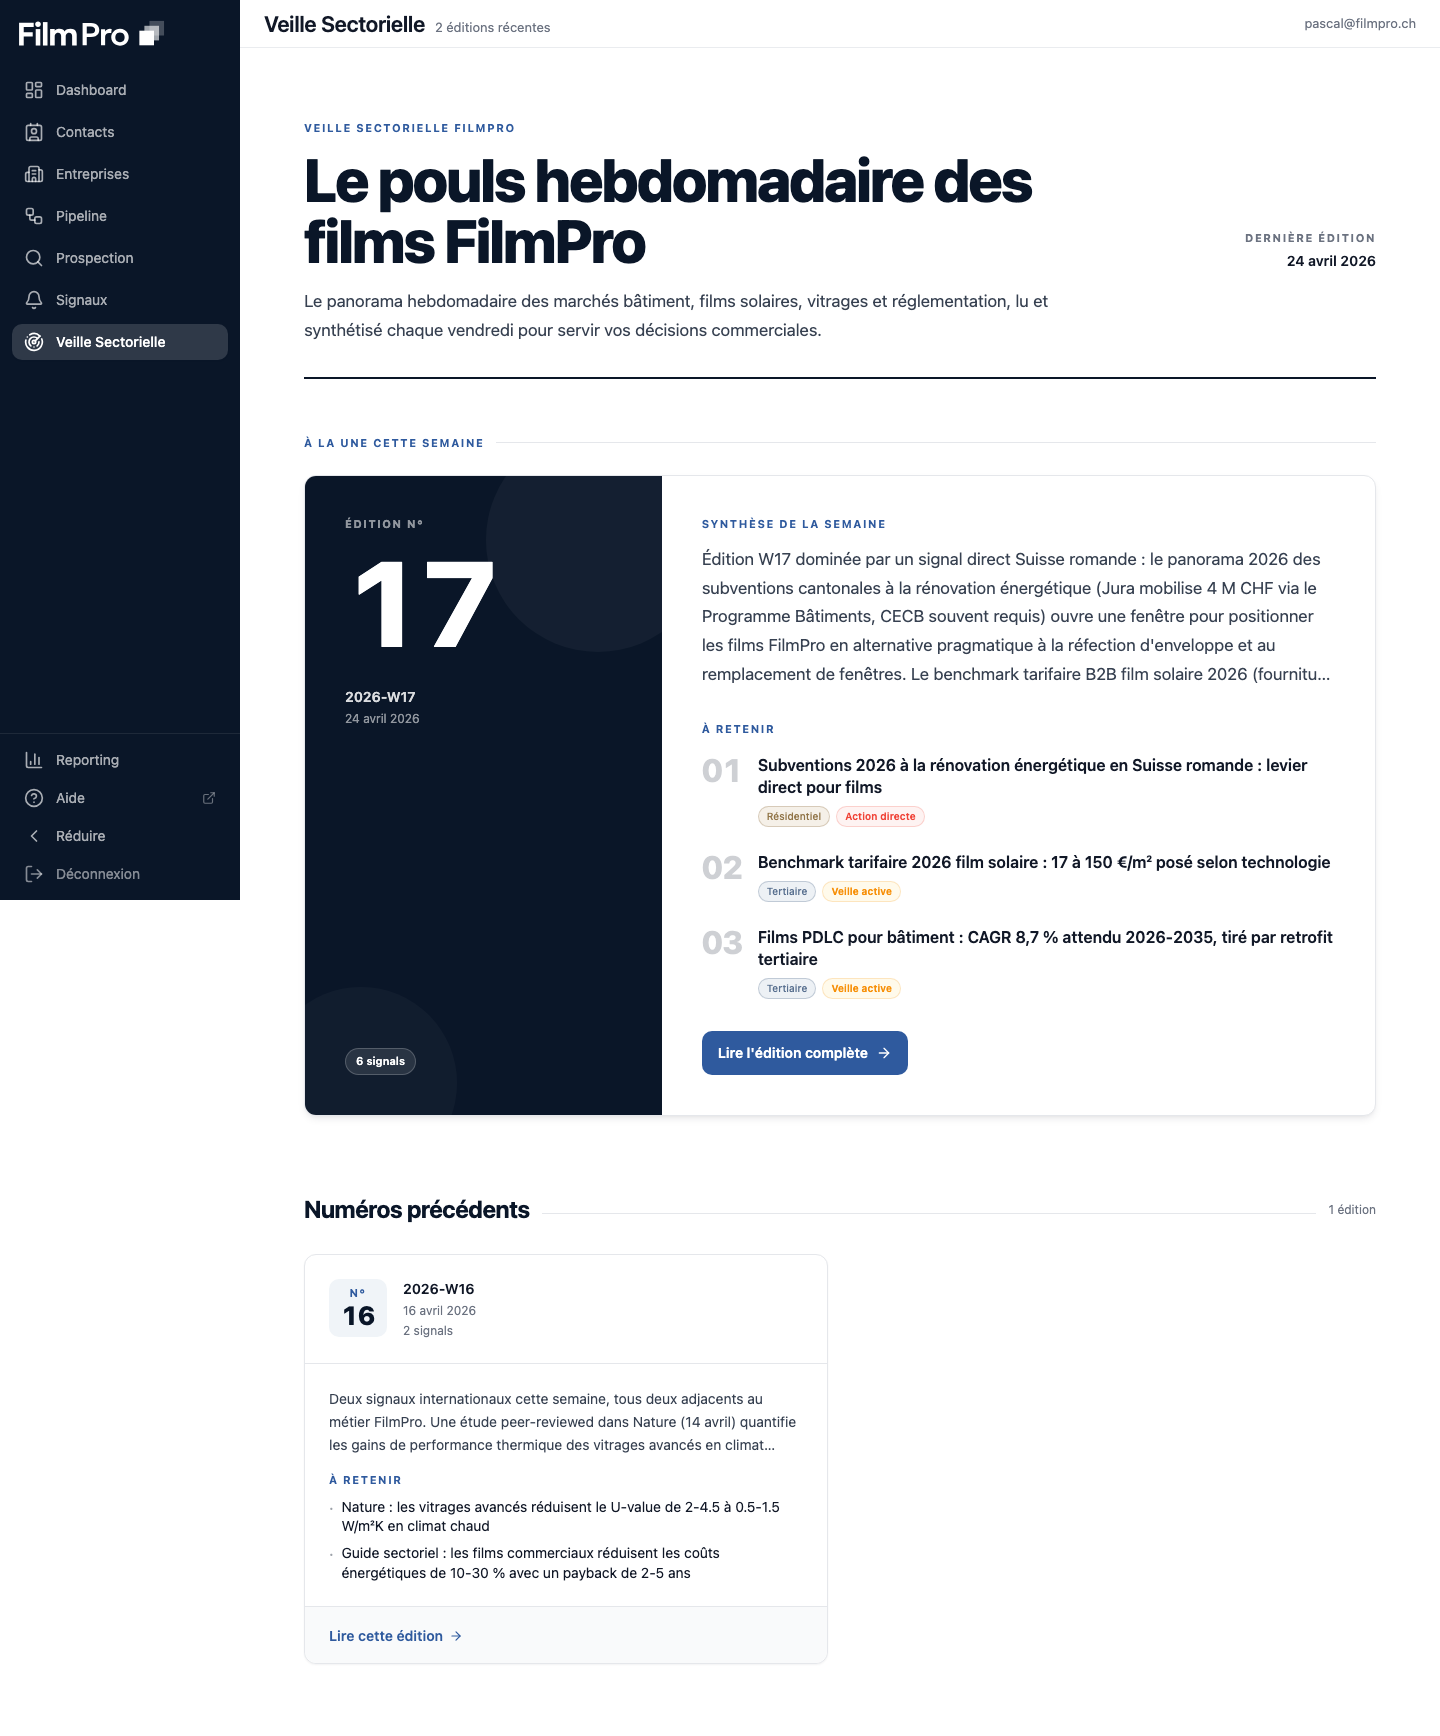
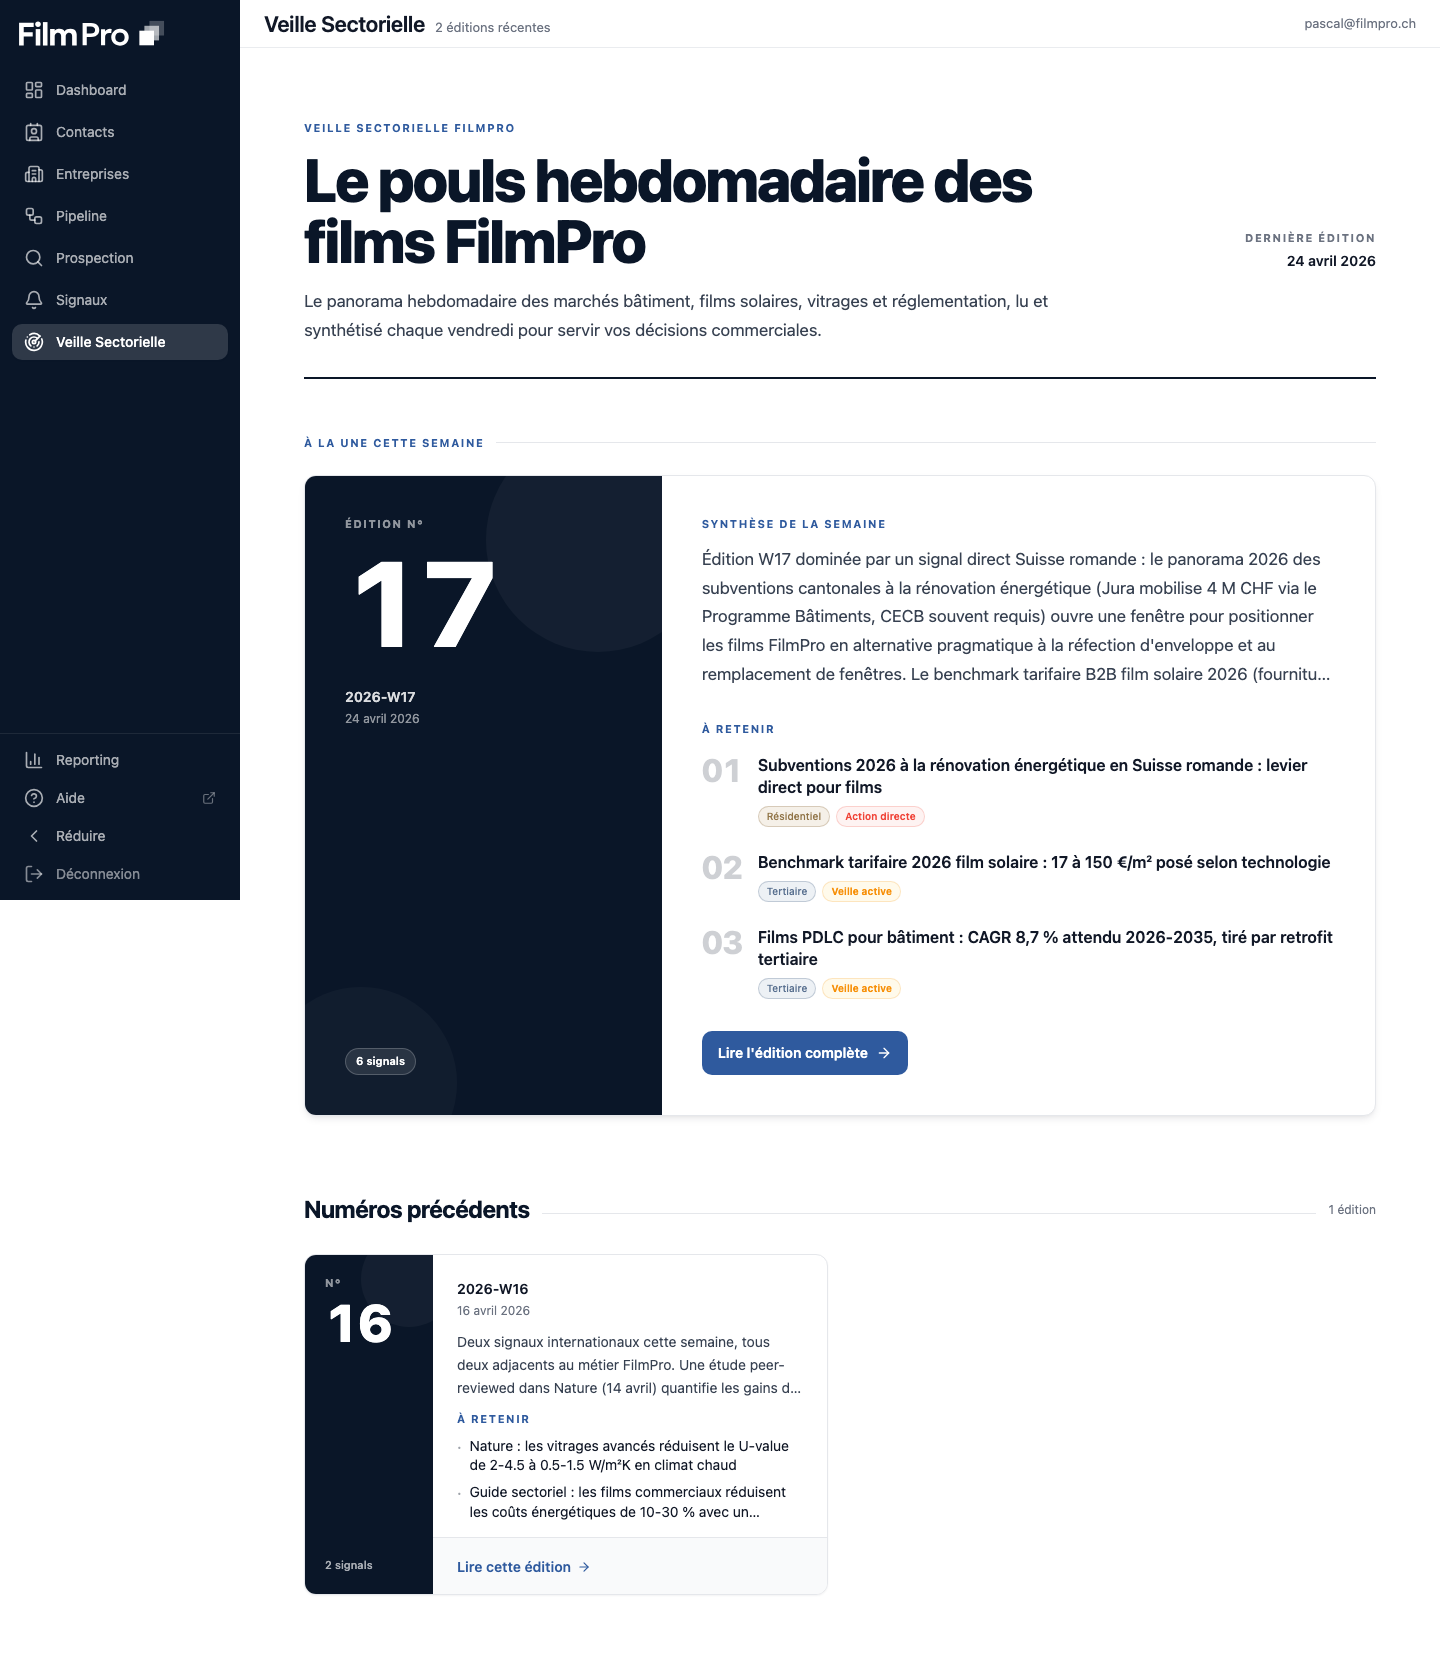
test(crm): screenshots + tests Playwright phase 2 /veille
- 2 nouveaux tests Playwright contre prod (commit 944c3c7) :
  - détail édition desktop 1280 - full page (clic CTA puis screenshot)
  - détail édition mobile iPhone 14 Pro Max - full page + assertion
    overflow horizontal ≤ innerWidth + 1
- Régénération screenshots after-* phase 2 (cohérence DNA archives + détail)

Tests : 7/7 verts contre prod après deploy 944c3c7.

diff --git a/template/tests/refonte-veille-screenshots.spec.ts b/template/tests/refonte-veille-screenshots.spec.ts
@@ -75,4 +75,51 @@ test.describe('/veille refonte - screenshots', () => {
 		await page.waitForURL(/\/veille\/[\w-]+/);
 		expect(page.url()).toMatch(/\/veille\/[\w-]+/);
 	});
+
+	test('détail édition desktop 1280 - full page', async ({ page }) => {
+		await page.setViewportSize({ width: 1280, height: 900 });
+		await page.goto('/veille', { waitUntil: 'networkidle' });
+		const cta = page.locator('a:has-text("Lire l\'édition complète")').first();
+		await cta.click();
+		await page.waitForURL(/\/veille\/[\w-]+/);
+		await page.waitForTimeout(800);
+		await page.screenshot({
+			path: `${SHOTS_DIR}/after-detail-desktop.png`,
+			fullPage: true,
+		});
+	});
+
+	test('détail édition mobile iPhone 14 Pro Max - full page', async ({
+		browser,
+	}) => {
+		const context = await browser.newContext({
+			...devices['iPhone 14 Pro Max'],
+			storageState: 'tests/.auth.json',
+		});
+		const page = await context.newPage();
+		await page.goto('/veille', { waitUntil: 'networkidle' });
+		const cta = page.locator('a:has-text("Lire l\'édition complète")').first();
+		await cta.click();
+		await page.waitForURL(/\/veille\/[\w-]+/);
+		await page.waitForTimeout(800);
+
+		const overflow = await page.evaluate(() => {
+			const html = document.documentElement;
+			const body = document.body;
+			return {
+				scrollWidth: Math.max(html.scrollWidth, body.scrollWidth),
+				innerWidth: window.innerWidth,
+			};
+		});
+		expect.soft(
+			overflow.scrollWidth,
+			`détail mobile : scrollWidth (${overflow.scrollWidth}) > innerWidth (${overflow.innerWidth})`,
+		).toBeLessThanOrEqual(overflow.innerWidth + 1);
+
+		await page.screenshot({
+			path: `${SHOTS_DIR}/after-detail-mobile.png`,
+			fullPage: true,
+		});
+		await context.close();
+	});
 });
